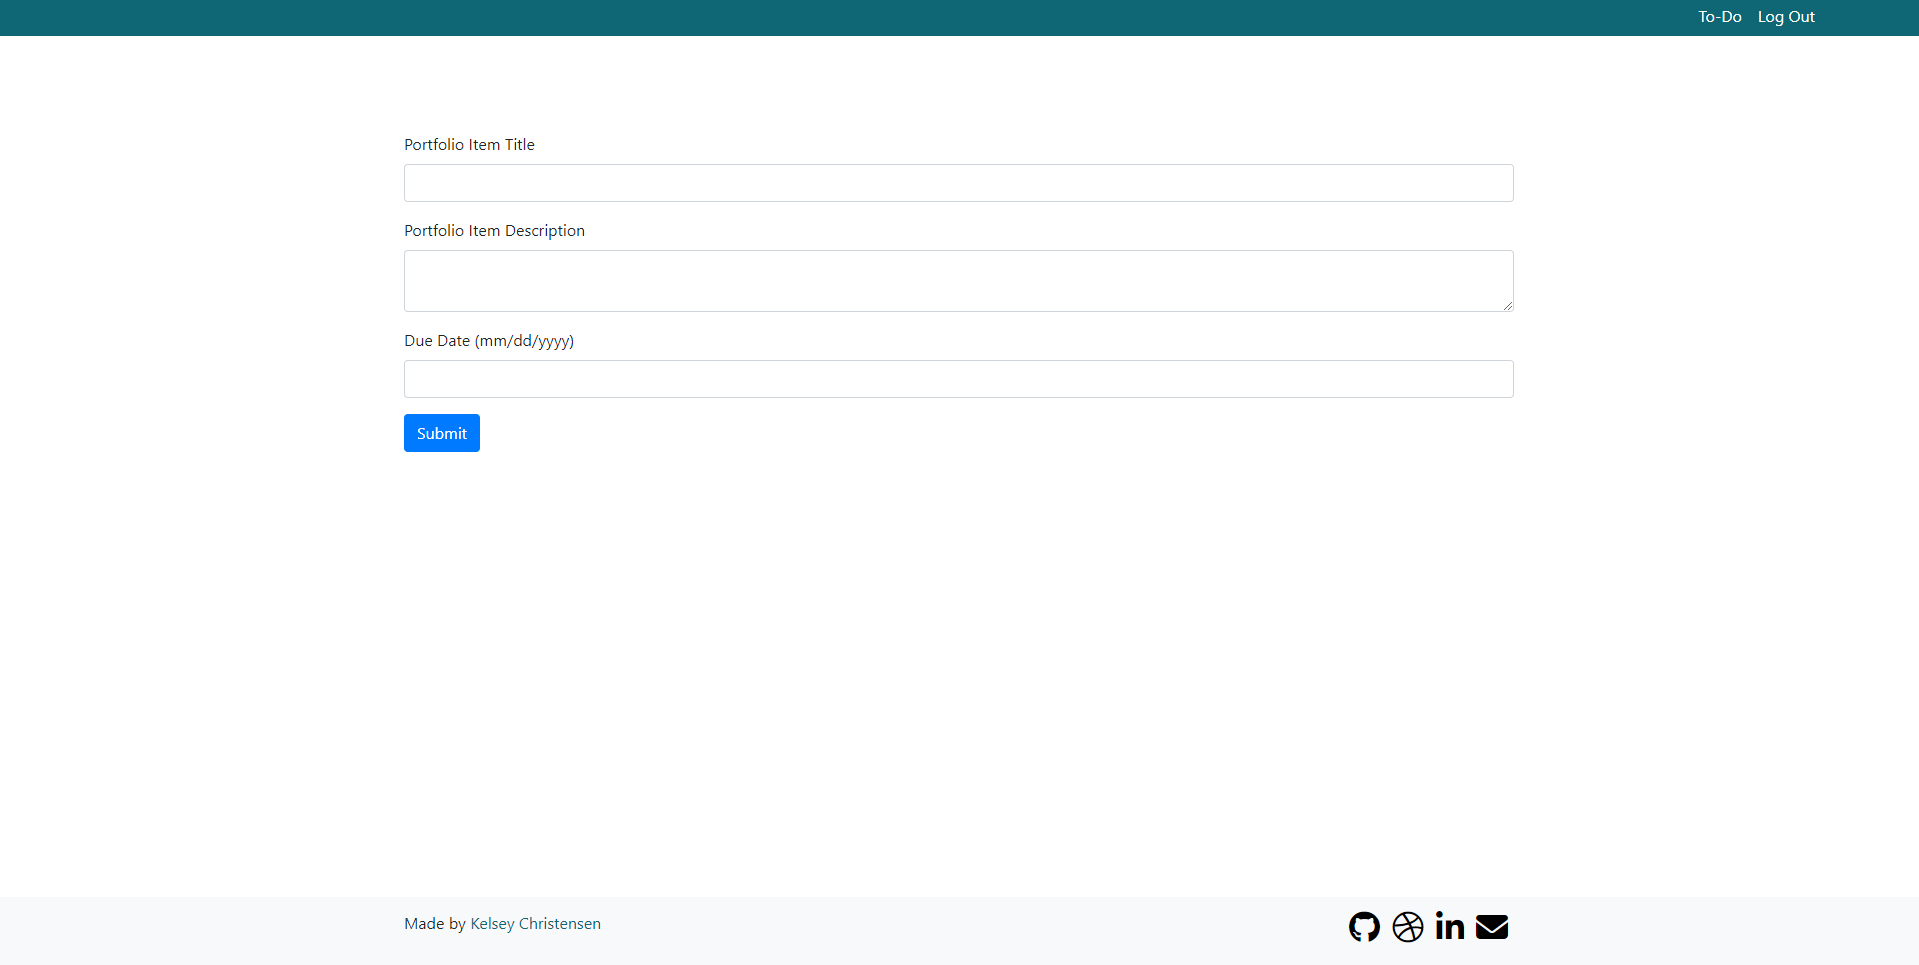
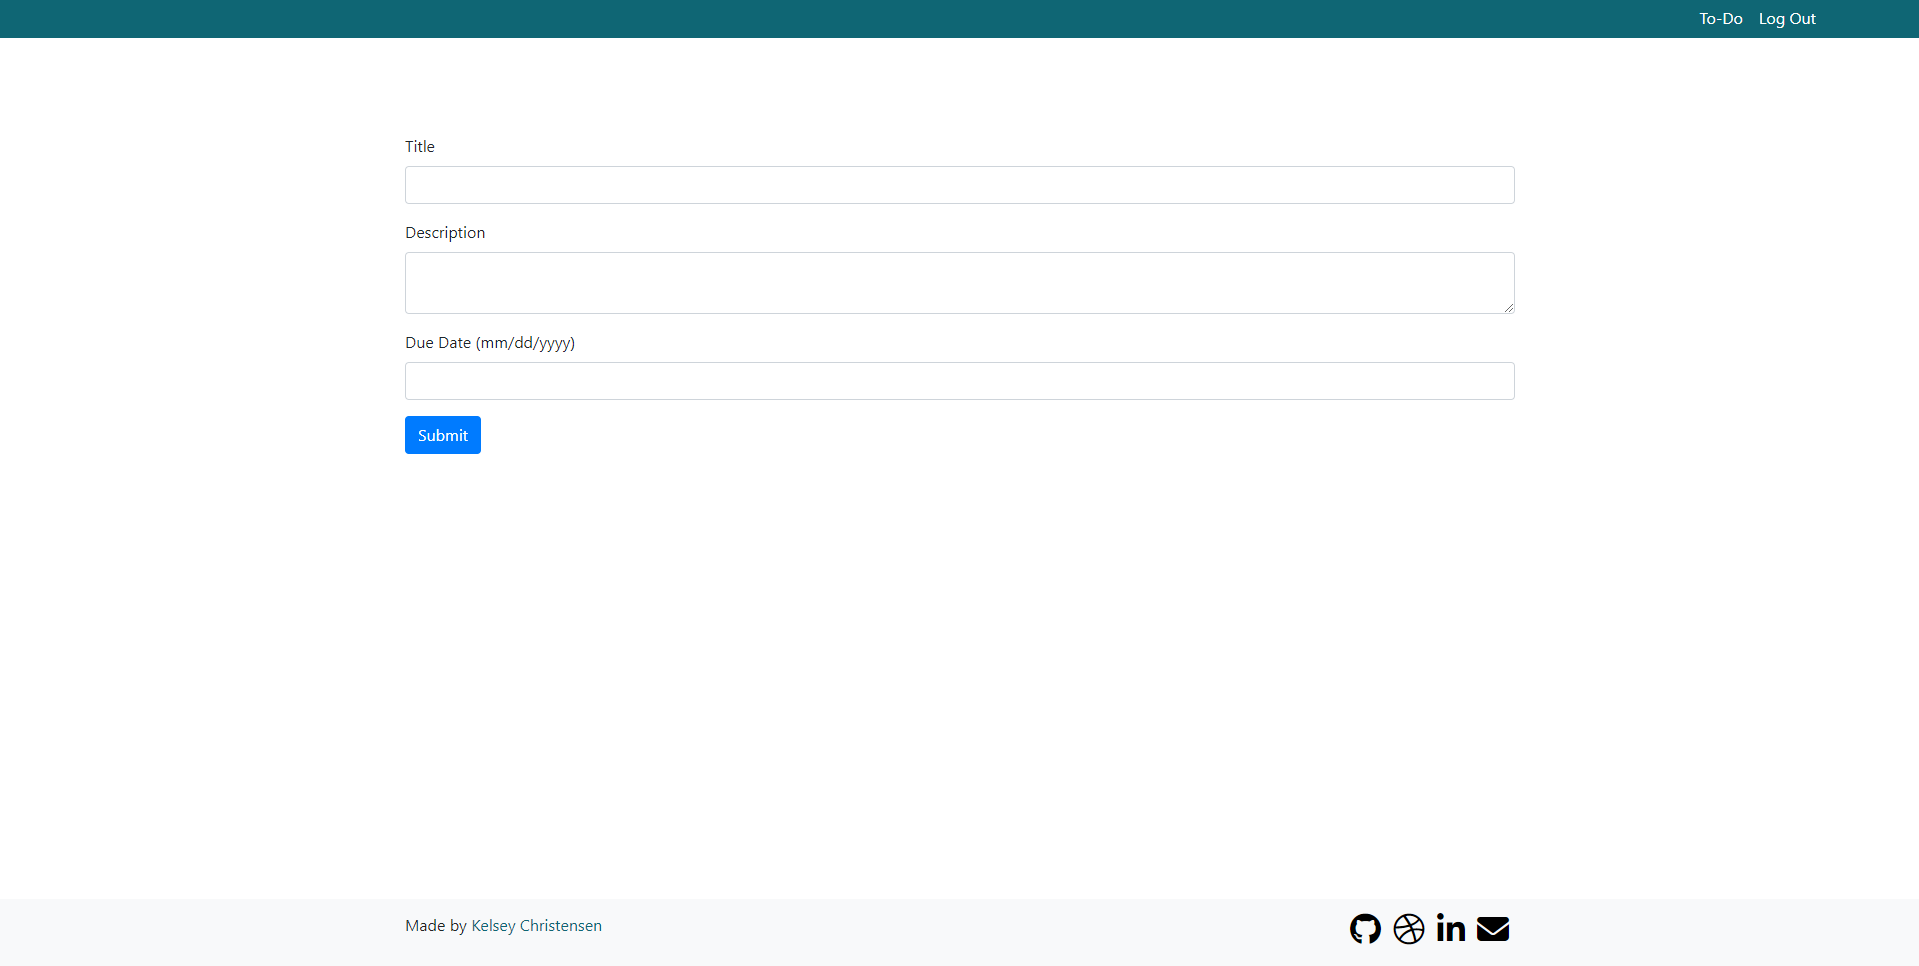
form headings and broken links

diff --git a/templates/footer.html b/templates/footer.html
@@ -1,7 +1,7 @@
 <!-- Footer with links to other sites -->
 <footer>
 <nav class="navbar fixed-bottom navbar-light bg-light">    <div class="container">
-      <p>Made by <a href="kelseychristensen.com">Kelsey Christensen</a></p>
+      <p>Made by <a href="http://kelseychristensen.com/">Kelsey Christensen</a></p>
     <table>
 
       <tr>

diff --git a/forms.py b/forms.py
@@ -4,8 +4,8 @@ from wtforms.validators import DataRequired
 
 
 class CreateItemForm(FlaskForm):
-    title = StringField("Portfolio Item Title", validators=[DataRequired()])
-    description = TextAreaField("Portfolio Item Description", validators=[DataRequired()])
+    title = StringField("Title", validators=[DataRequired()])
+    description = TextAreaField("Description", validators=[DataRequired()])
     due_date = StringField("Due Date (mm/dd/yyyy)", validators=[DataRequired()])
     submit = SubmitField("Submit")
 
